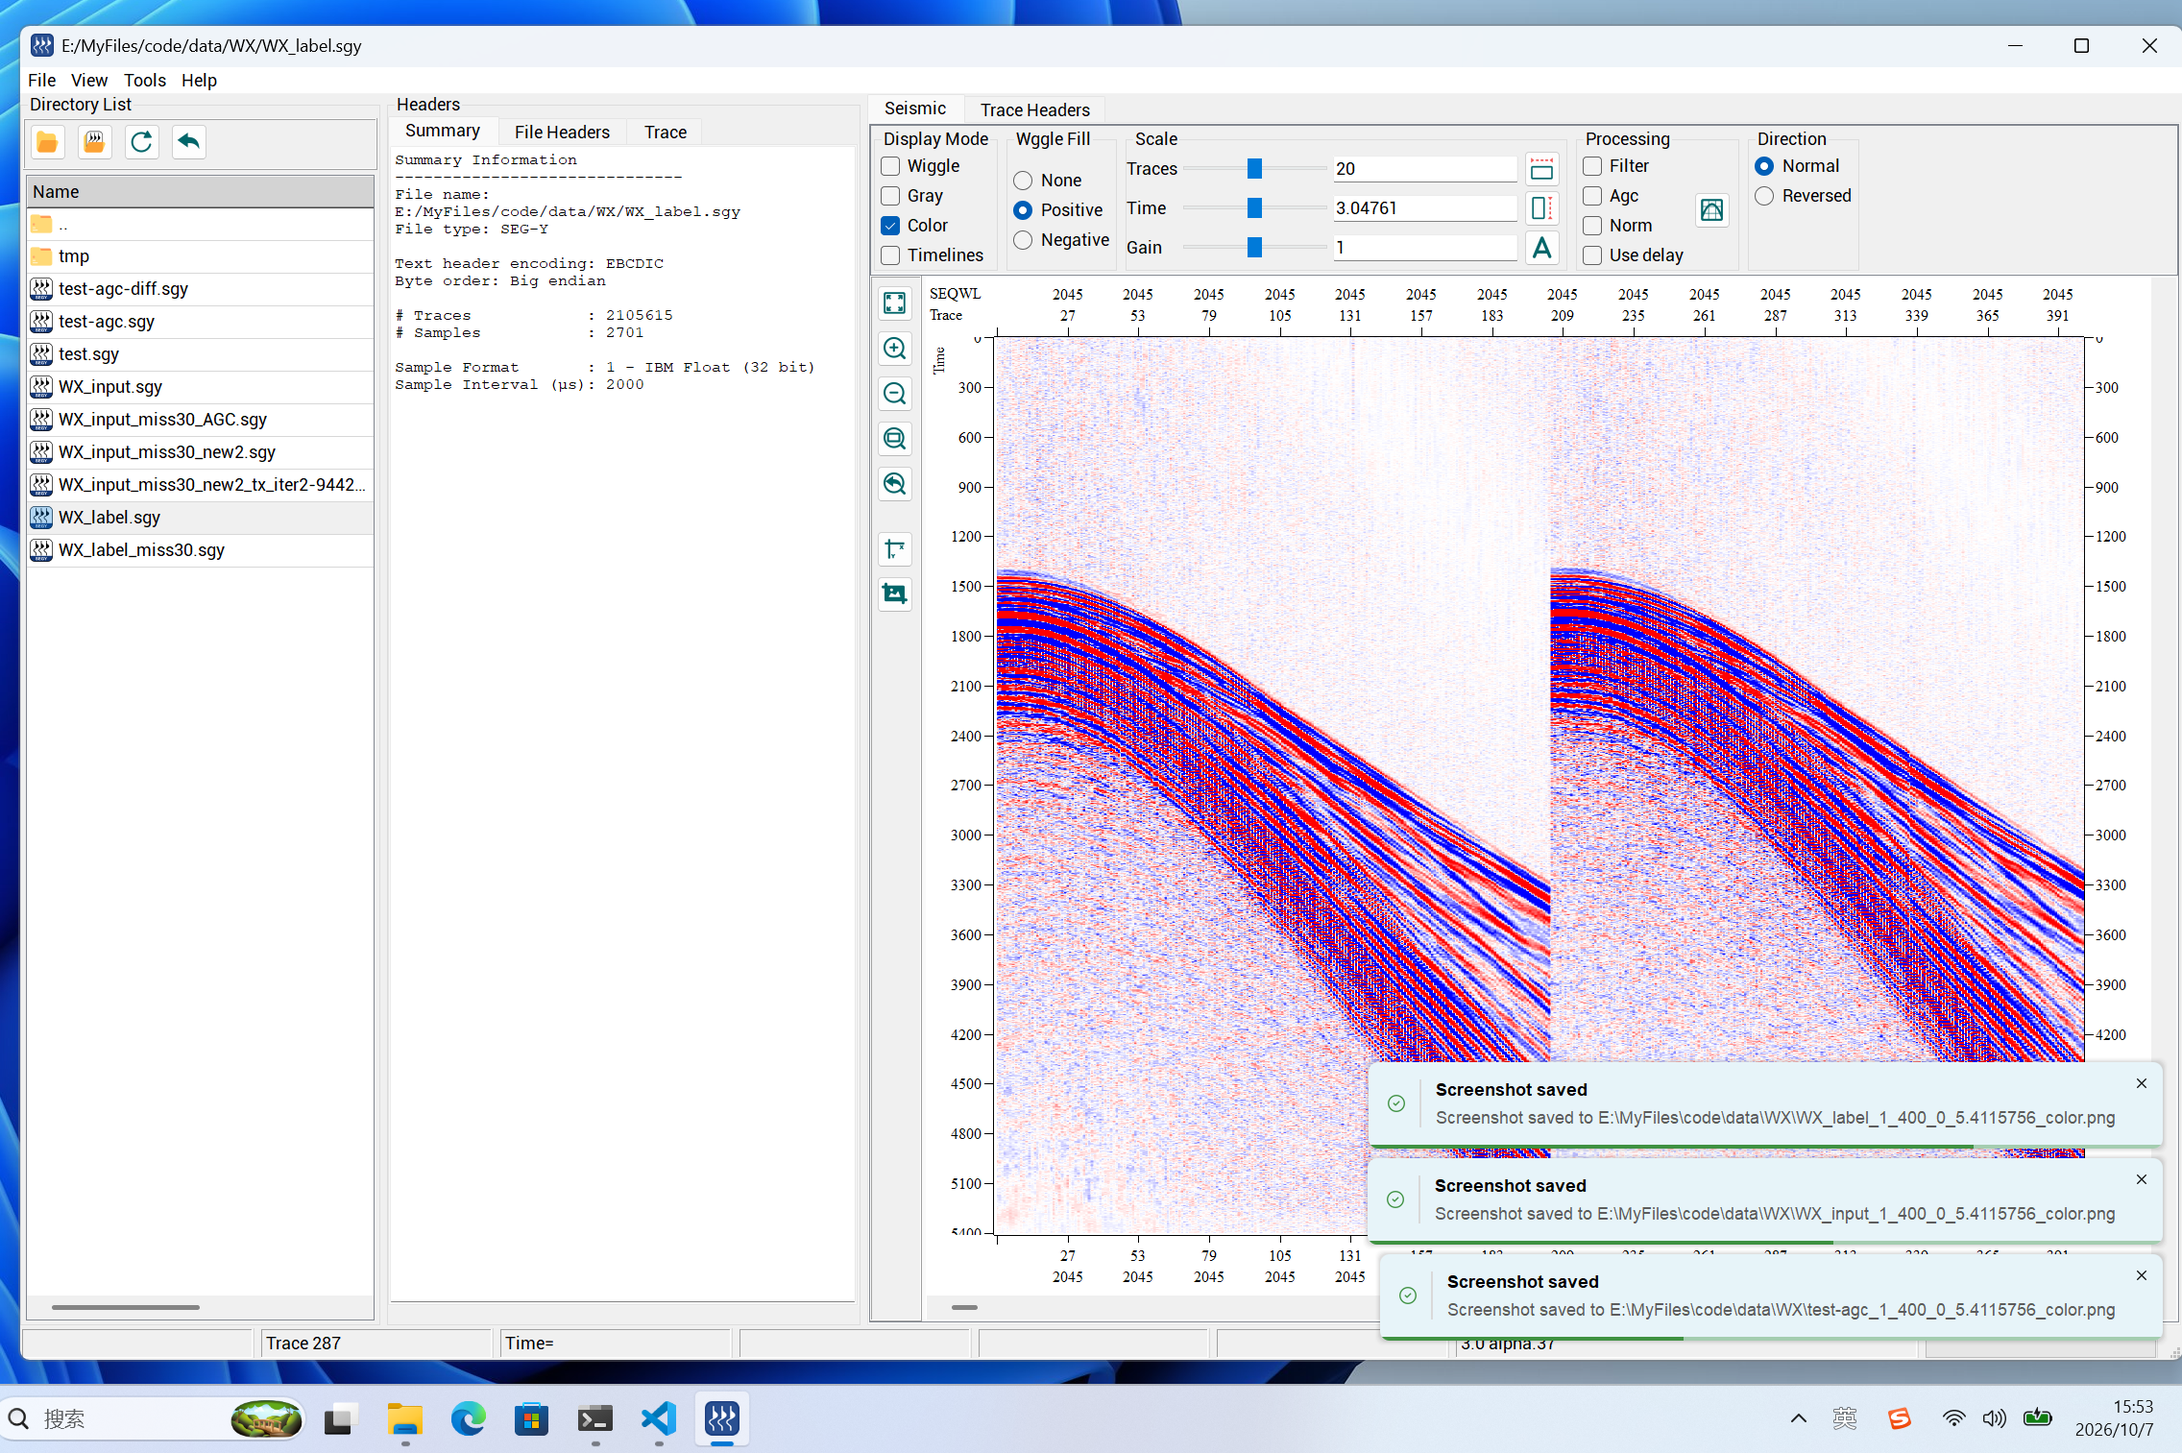
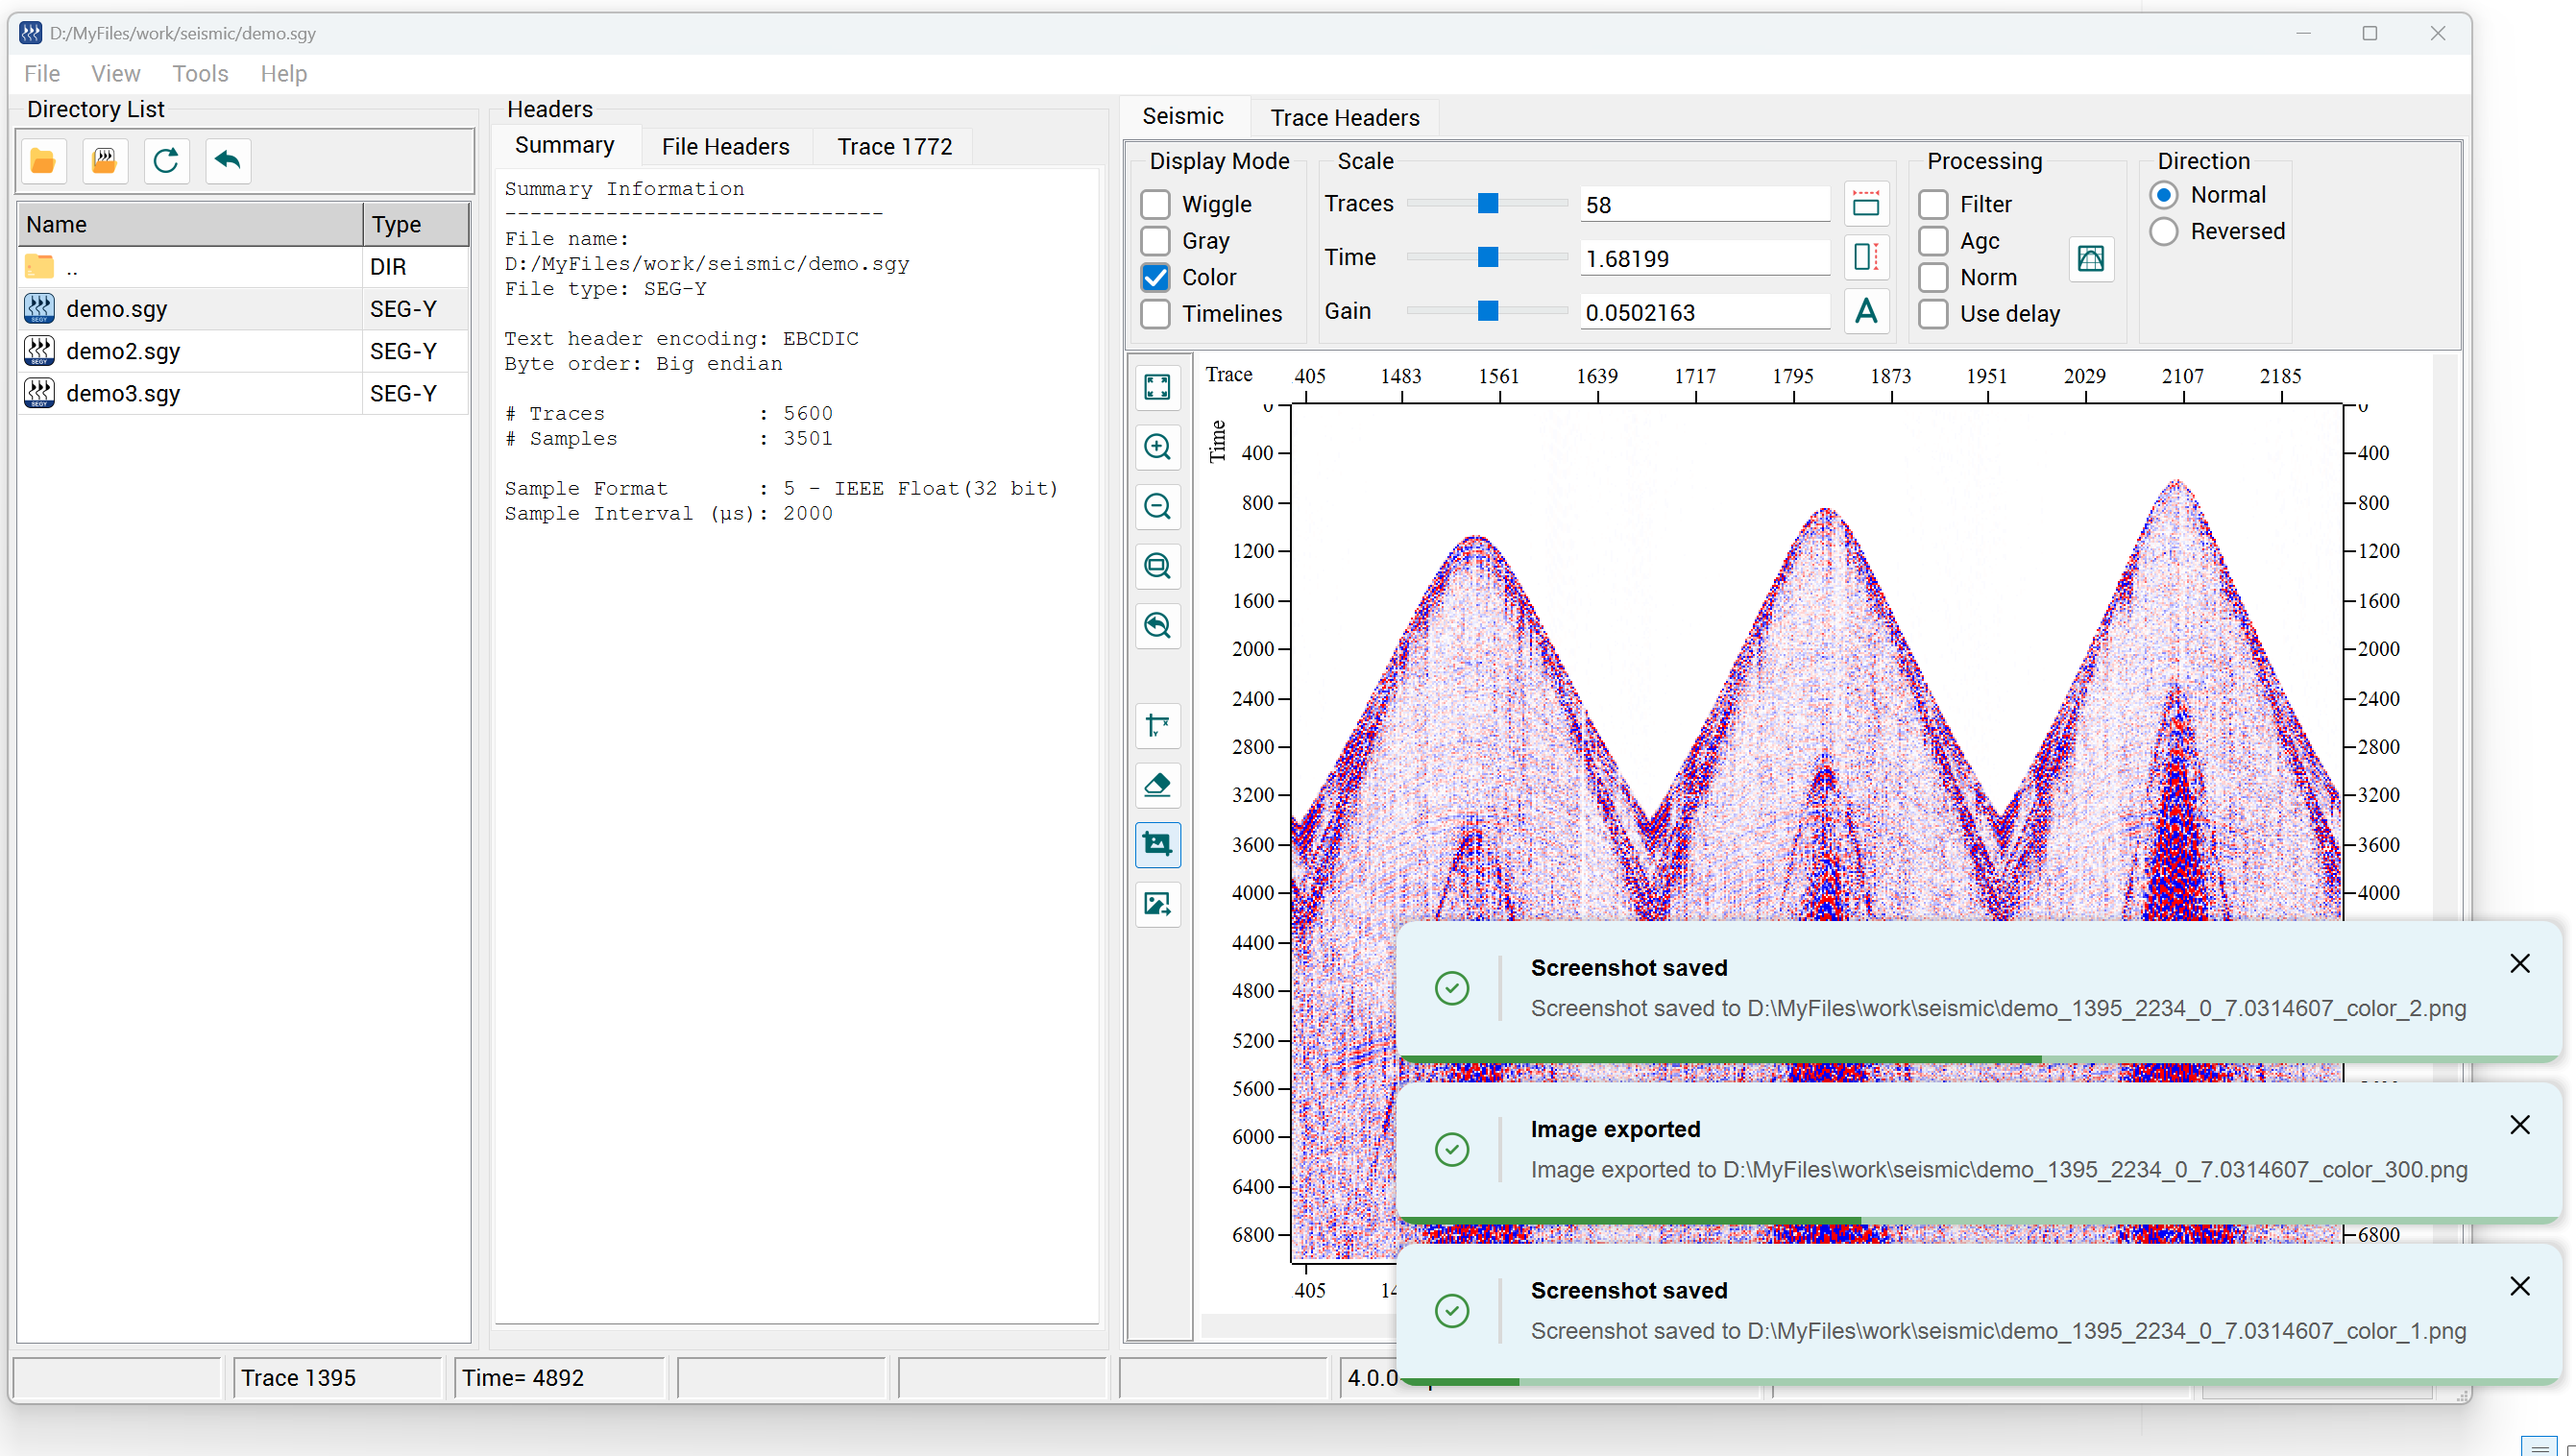
更新readme

diff --git a/README.md b/README.md
@@ -2,7 +2,7 @@
   <h1 align="center">地震数据查看器SeiSee</h1>
 </div>
 
-<div align="center">一个支持多平台的地震数据查看工具,源代码开发者为：https://mail.dmng.ru/freeware/</div>
+<div align="center">一个支持Windows/Linux的地震数据查看工具,源代码开发者为：https://mail.dmng.ru/freeware/</div>
 <br>
 <p align="center">
   <a href="https://github.com/wangweiwei104/SeiSee/releases/latest">
@@ -21,20 +21,36 @@
 
 ## 界面
 
-![主界面](screenshots/home.png)
 主界面
+<img src="screenshots/home.png" alt="主界面" width="800">
 
-![截图功能](screenshots/capture.png)
+主界面-wiggle
+<img src="screenshots/home1.png" alt="主界面2" width="800">
+
 截图功能
+<img src="screenshots/capture.png" alt="截图功能" width="800">
 
-![difference](screenshots/difference.png)
 difference
+<img src="screenshots/difference.png" alt="difference" width="400">
 
-![axissetup](screenshots/axissetup.png)
 axis setup
+<img src="screenshots/axissetup.png" alt="axissetup" width="400">
 
-![process](screenshots/process.png)
 process
+<img src="screenshots/process.png" alt="process" width="400">
+
+截图与图片导出的不同
+
+<table>
+  <tr>
+    <td><img src="screenshots\d2_17_277_1.0749254_4.2111088_wiggle_filt_2_5_40_60_1.png" width="400"></td>
+    <td><img src="screenshots\d2_17_277_1.0749254_4.2111088_wiggle_filt_2_5_40_60_300_1.png" width="400"></td>
+  </tr>
+  <tr>
+    <td align="center">截图</td>
+    <td align="center">图片导出</td>
+  </tr>
+</table>
 
 ## 功能
 
